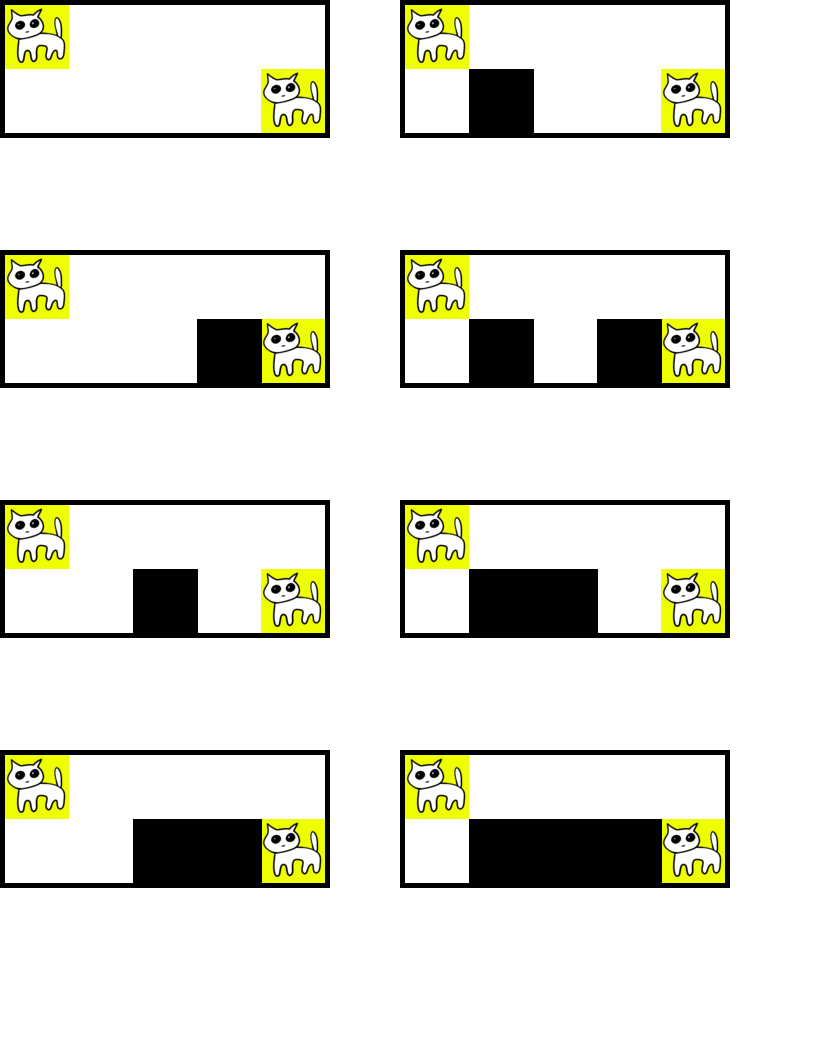
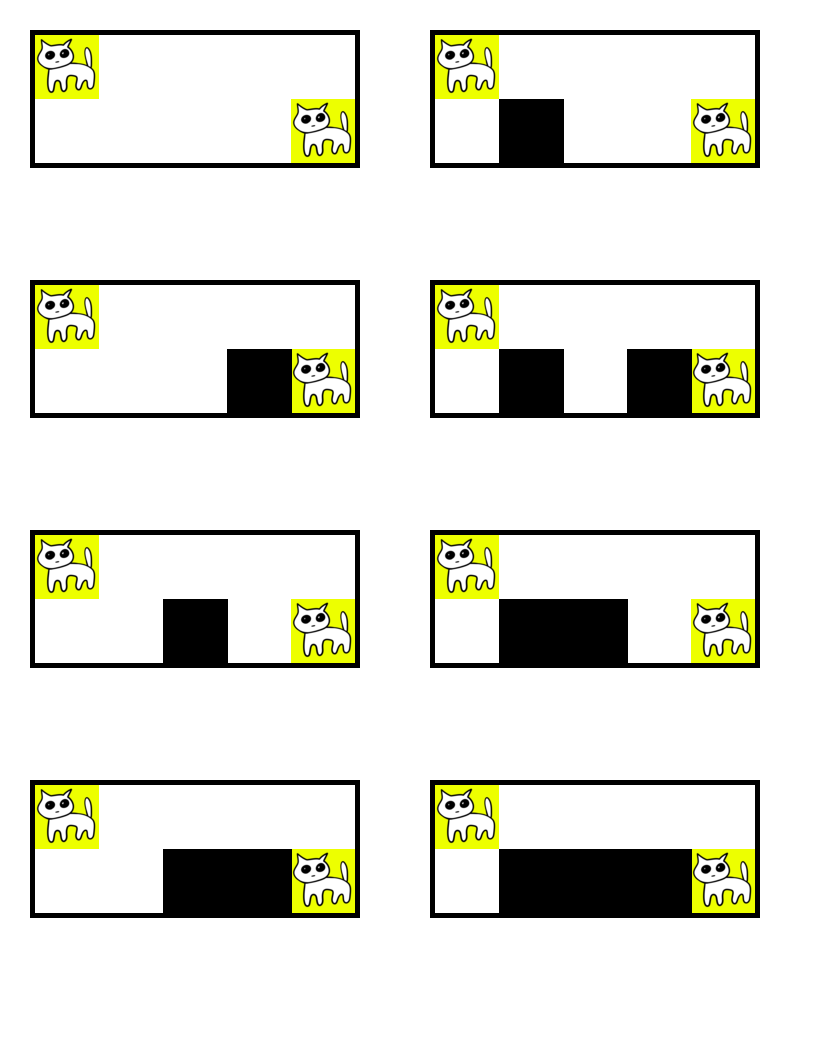
changed padding for easier print

diff --git a/creating_printing_sheets.py b/creating_printing_sheets.py
@@ -12,7 +12,7 @@ for i in range(members):
         bigarr.append(smallarr)
         smallarr = []
 
-coords = [0, 250, 500, 750]
+coords = [30, 280, 530, 780]
 border = (5, 5, 5, 5)
 x = 0
 for i in bigarr:
@@ -21,14 +21,14 @@ for i in bigarr:
     for j, coord in zip(i, coords):
         code = Image.open(j)
         code = ImageOps.expand(code, border=border, fill=(0, 0, 0, 255))
-        canvas.paste(code, (0, coord))
+        canvas.paste(code, (30, coord))
         count += 1
         if count == 4:
             break
     for j, coord in zip(i[4:], coords):
         code = Image.open(j)
         code = ImageOps.expand(code, border=border, fill=(0, 0, 0, 255))
-        canvas.paste(code, (400, coord))
+        canvas.paste(code, (430, coord))
 
     canvas.save(f"robocodesheet{x}.png")
     shutil.move(f"robocodesheet{x}.png", f"RoboCodeSheets/robocodesheet{x}.png")
